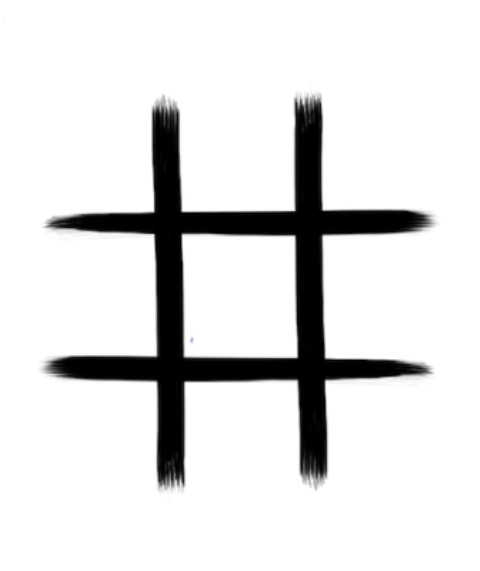
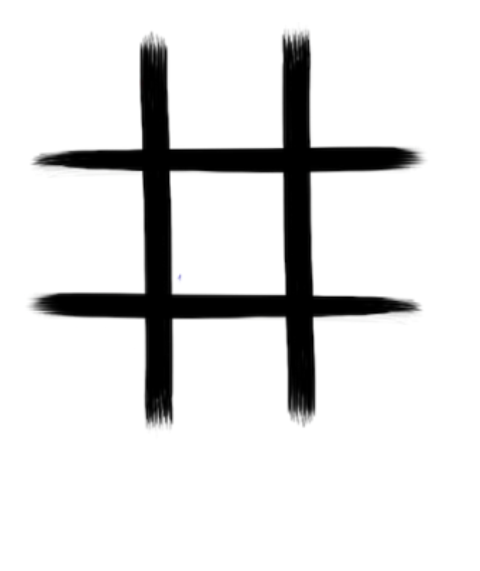
Added design.css Designed button, added drop-shadow effect Added background image to TicTacToe board

Changed region(s): [[0.0625, 0.0298, 0.9062, 0.8634]]

diff --git a/Client/src/main/java/main/Design.css b/Client/src/main/java/main/Design.css
@@ -1,0 +1,13 @@
+.borderpane {
+    -fx-background-image: url('Grid.png');
+}
+.button {
+    -fx-text-fill: white;
+    -fx-font-family: "Arial Narrow";
+    -fx-font-weight: bold;
+    -fx-background-color: linear-gradient(#61a2b1, #2A5058);
+    -fx-effect: dropshadow( three-pass-box , rgba(0,0,0,0.8) , 5, 0.0 , 0 , 1 );
+}
+.button:hover {
+    -fx-background-color: linear-gradient(#2A5058, #61a2b1);
+}

diff --git a/Client/src/main/java/main/GameWindow.java b/Client/src/main/java/main/GameWindow.java
@@ -1,7 +1,9 @@
 package main;
 
+import javafx.geometry.Pos;
 import javafx.scene.Scene;
-import javafx.scene.layout.Pane;
+import javafx.scene.image.Image;
+import javafx.scene.layout.*;
 import javafx.stage.Stage;
 
 /**
@@ -11,6 +13,7 @@ public class GameWindow {
     private Stage stage2 = new Stage();
     private Pane gameScene;
     private Scene scene2;
+    private String boardBackground;
 
     GameWindow() {
         createContent();
@@ -18,22 +21,25 @@ public class GameWindow {
 
     private Pane createContent() {
         gameScene = new Pane();
-        gameScene.setPrefSize(600, 400);
-        /*gameScene.getStylesheets().add("Background.css");
-        stage2.getScene().getStylesheets().add(GameWindow.class.getResource("Background.css").toExternalForm());*/
+        gameScene.setPrefSize(475, 475);
+        boardBackground = Game.class.getResource("Grid.png").toExternalForm();
+        gameScene.setStyle("-fx-background-image: url('" + boardBackground + "'); " +
+                "-fx-background-position: up left; " +
+                "-fx-background-repeat: stretch;");
         scene2 = new Scene(gameScene);
         stage2.setScene(scene2);
         stage2.setResizable(true);
         stage2.show();
 
+        // Create tiles to set Id-s
         int tileIndex = 0;
         for (int i = 0; i < 3; i++) {
             for (int j = 0; j < 3; j++) {
                 Game tile = new Game();
                 tile.setId("" + tileIndex);
                 tileIndex++;
-                tile.setTranslateX(j * 120);
-                tile.setTranslateY(i * 120);
+                tile.setTranslateX(j * 150);
+                tile.setTranslateY(i * 150);
                 gameScene.getChildren().add(tile);
             }
         }

diff --git a/Client/src/main/java/main/Game.java b/Client/src/main/java/main/Game.java
@@ -1,5 +1,6 @@
 package main;
 
+import javafx.geometry.Pos;
 import javafx.scene.control.Label;
 import javafx.scene.image.Image;
 import javafx.scene.image.ImageView;
@@ -24,11 +25,11 @@ public class Game extends StackPane {
     private Image oPic = new Image(getClass().getResourceAsStream("O.png"));
 
     public Game() {
-        border = new Rectangle(120, 120);            // draws TicTacToe board
+        // Tic Tac Toe board with rectangles, can be uncommented as were using background image as well.
+        border = new Rectangle(150, 150);
         border.setFill(null);
         border.setStroke(Color.BLACK);
-//        border.setStyle("-fx-image:url('Grid.png');");
-//            border.setOpacity(0);
+        border.setOpacity(0);
         getChildren().addAll(border, fill);
 
         this.enableMouse();
@@ -38,7 +39,7 @@ public class Game extends StackPane {
     public void enableMouse() {
 
         setOnMouseClicked(event -> {
-            drawMark(1);
+            drawMark(2);
 //            Message message = new Message(ClientCommand.DECISION, this.getId());
 //            sendMessage(message);
         });
@@ -60,5 +61,6 @@ public class Game extends StackPane {
                 break;
         }
     }
+
 
 }

diff --git a/Client/src/main/java/main/FirstWindow.java b/Client/src/main/java/main/FirstWindow.java
@@ -17,6 +17,8 @@ public class FirstWindow {
     private Label enter, hello;
     private TextField name;
     private Stage stage1 = new Stage();
+    private Scene scene1;
+    private VBox vbox;
 
     FirstWindow() {
         firstScene();
@@ -24,11 +26,12 @@ public class FirstWindow {
     }
 
     private void firstScene() {
-        VBox vbox = new VBox();
+        vbox = new VBox();
         vbox.setPadding(new Insets(150));
         vbox.setSpacing(15);
-        Scene scene1 = new Scene(vbox);
-
+        scene1 = new Scene(vbox);
+        scene1.getStylesheets().add
+                (FirstWindow.class.getResource("Design.css").toExternalForm());
         hello = new Label("Lets play some Tic Tac Toe");
         enter = new Label("Please enter your name to begin:");
         name = new TextField();
